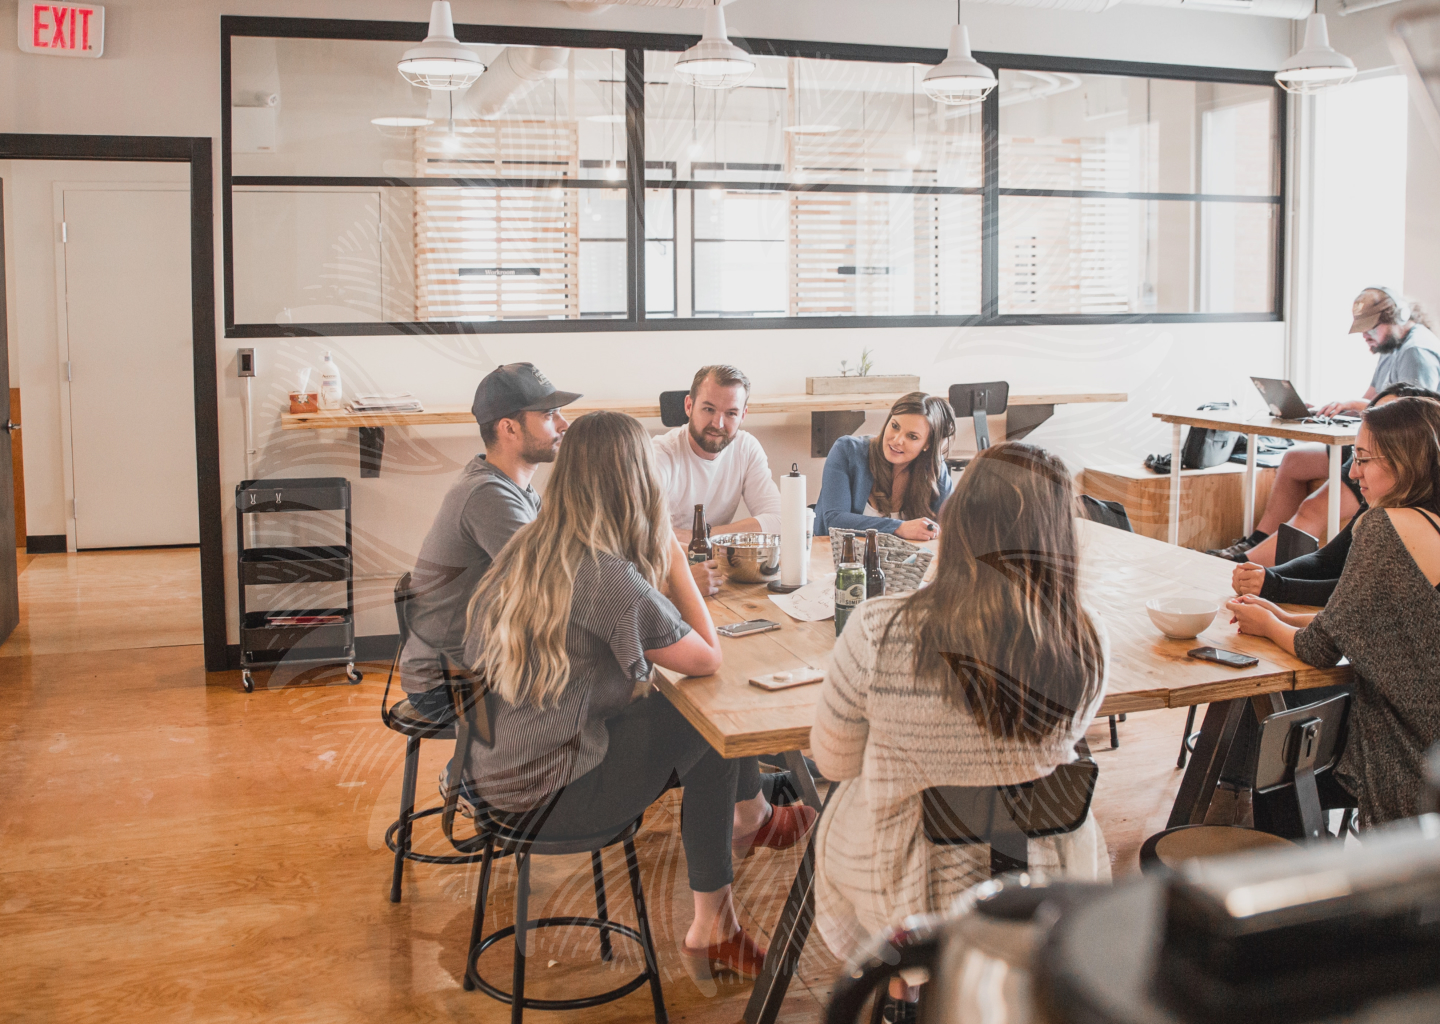
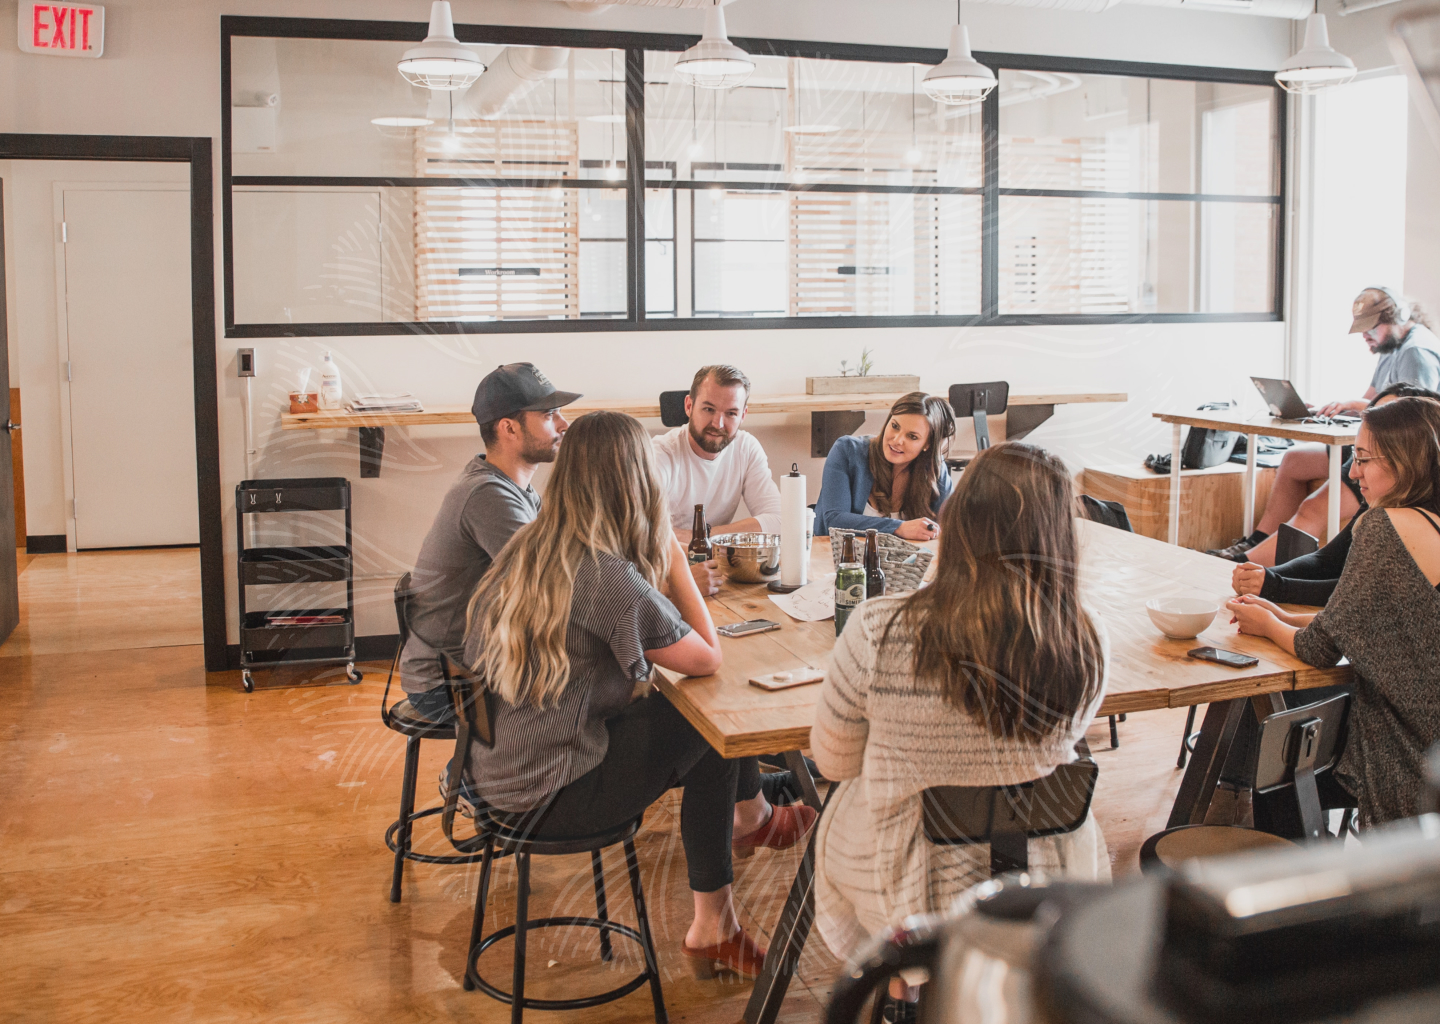
correction slide bg and overlay

diff --git a/assets/css/style.css b/assets/css/style.css
@@ -844,7 +844,7 @@ input[type=search]::-webkit-search-decoration {
 
 [data-overlay="1"]:before {
   opacity: 1;
-  background: radial-gradient(circle, rgba(0,0,0,0) 0%, rgba(0,0,0,0.9) 90%), linear-gradient(180deg, rgba(0,0,0,0) 0%, rgba(0,0,0,0.8) 100%);;
+  background: radial-gradient(circle, rgba(0,0,0,0) 0%, rgba(0,0,0,0.9) 90%), linear-gradient(180deg, rgba(0,0,0,0) 0%, rgba(0,0,0,0.4) 100%);;
 }
 
 .link-vist .link-vist-text {
